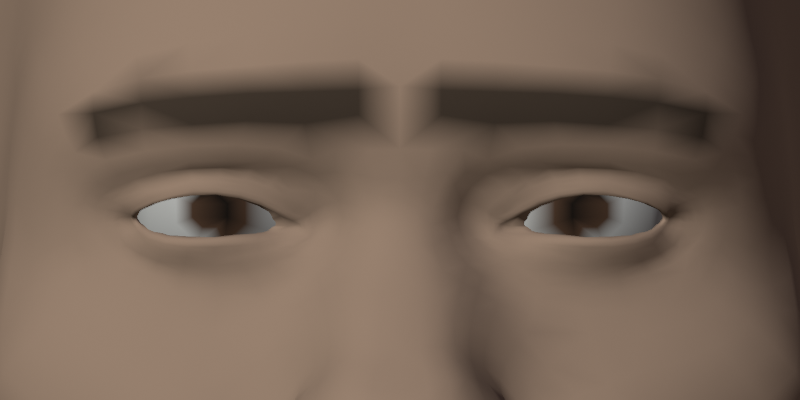
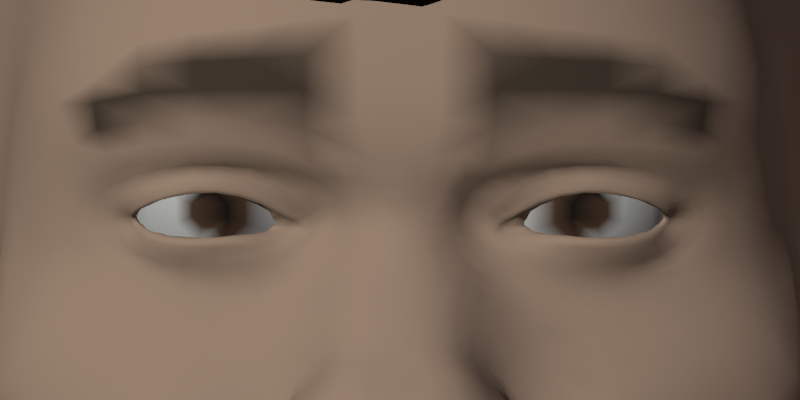
Miguel: camisa sem furos e listras continuas, rosto mais jovem e cheio
- Camisa: furos da cintura fechados, malha subdividida (listras e barra
  continuas), diagonal amarela so na frente
- Rosto: idade menor, bochechas e maxilar mais cheios, nariz e boca largos,
  cantos da boca levemente para cima, sobrancelha grossa afinando na ponta

Claude-Session: https://claude.ai/code/session_015xcccLS1wLAHGWNWcjbuqz

diff --git a/arte/miguel_humano.py b/arte/miguel_humano.py
@@ -25,25 +25,26 @@ ALTURA = 1.76
 # ---------------------------------------------------------------- medidas
 # Valores no jeito do MakeHuman (0..1). Miguel: 1,76 m, 67 kg, magro, ombros
 # largos, rosto largo nas bochechas, orelhas marcadas, labios cheios.
-MACRO = {"gender": 1.0, "age": 0.52, "muscle": 0.55, "weight": 0.40,
+MACRO = {"gender": 1.0, "age": 0.48, "muscle": 0.55, "weight": 0.40,
          "african": 0.40, "asian": 0.10, "caucasian": 0.50}
 # alvo (pasta/nome sem -incr/-decr e sem l-/r-) -> valor (-1..1)
 FORMA = {
-    # rosto comprido e largo nas macas; maxilar marcado, queixo redondo
-    "head/head-scale-vert": 0.05, "head/head-oval": 0.10, "head/head-scale-horiz": 0.40,
-    "cheek/cheek-bones": 0.70, "cheek/cheek-volume": 0.45,
-    "chin/chin-prominent": 0.15, "chin/chin-height": 0.20, "chin/chin-width": 0.15,
-    # testa e sobrancelha pesadas (olho fundo, sobrancelha baixa)
-    "eyebrows/eyebrows-trans-down": 0.30, "eyebrows/eyebrows-trans-forward": 0.10,
-    "forehead/forehead-trans-forward": 0.15,
+    # rosto largo e cheio (bochechas), jovem; maxilar largo e macio
+    "head/head-scale-vert": 0.10, "head/head-round": 0.10, "head/head-scale-horiz": 0.35,
+    "head/head-fat": 0.05,
+    "cheek/cheek-bones": 0.60, "cheek/cheek-volume": 0.50,
+    "chin/chin-prominent": 0.0, "chin/chin-height": 0.10, "chin/chin-width": 0.30,
+    # sobrancelha reta e baixa, sem testa saliente
+    "eyebrows/eyebrows-trans-down": 0.20, "eyebrows/eyebrows-angle-down": 0.20,
     # orelhas grandes e de abano
     "ears/ear-scale": 0.50, "ears/ear-flap": 0.65, "ears/ear-wing": 0.80,
-    # nariz longo, largo, ponta redonda e asas abertas
-    "nose/nose-scale-vert": 0.30, "nose/nose-scale-horiz": 0.35, "nose/nose-volume": 0.30,
-    "nose/nose-point-width": 0.55, "nose/nose-flaring": 0.55, "nose/nose-trans-forward": 0.15,
-    # labios cheios e largos, arco do cupido marcado
-    "mouth/mouth-upperlip-volume": 0.55, "mouth/mouth-lowerlip-volume": 0.75,
-    "mouth/mouth-scale-horiz": 0.25, "mouth/mouth-cupidsbow": 0.30,
+    # nariz largo, ponta redonda e asas abertas
+    "nose/nose-scale-vert": 0.20, "nose/nose-scale-horiz": 0.55, "nose/nose-volume": 0.40,
+    "nose/nose-point-width": 0.85, "nose/nose-flaring": 0.70,
+    # boca larga, labios cheios (o de baixo maior)
+    "mouth/mouth-upperlip-volume": 0.60, "mouth/mouth-lowerlip-volume": 0.85,
+    "mouth/mouth-scale-horiz": 0.50, "mouth/mouth-cupidsbow": 0.30,
+    "mouth/mouth-angles-up": 0.25,
     # corpo: ombros largos, cintura fina, pescoco longo
     "torso/torso-vshape": 0.45, "torso/measure-shoulder-dist": 0.35,
     "torso/measure-waist-circ": -0.30,
@@ -214,10 +215,10 @@ def pintar_corpo(ob, grupo_face, jt):
             continue
         ax = abs(c.x)
         # sobrancelha grossa, reta e baixa, caindo um pouco na ponta de fora
-        if 0.007 < ax < 0.056:
+        if 0.010 < ax < 0.056:
             t = (ax - 0.007) / 0.049
-            meio = oz + 0.016 + 0.0015 * t - 0.004 * max(0.0, t - 0.75) / 0.25
-            grossura = 0.0050 * (1.0 - 0.40 * t)
+            meio = oz + 0.017 + 0.004 * math.sin(math.pi * min(1.0, t * 1.1)) - 0.003 * max(0.0, t - 0.8) / 0.2
+            grossura = 0.0060 * (1.0 - 0.45 * t)
             dist = abs(c.z - meio)
             if dist < grossura * 1.6 and c.y < frente_rosto + 0.045:
                 f = 1.0 if dist < grossura else 1.0 - (dist - grossura) / (grossura * 0.6)
@@ -469,6 +470,11 @@ def fazer_camisa(ob, base_idx, dom, jt):
     ilhas.sort(key=len, reverse=True)
     for ilha in ilhas[1:]:
         bmesh.ops.delete(bm, geom=ilha, context="VERTS")
+    # tapa furos pequenos (onde a pele tinha peso da mao/antebraco) e
+    # subdivide para as listras sairem continuas
+    bmesh.ops.holes_fill(bm, edges=[e for e in bm.edges if e.is_boundary], sides=30)
+    bmesh.ops.triangulate(bm, faces=[f for f in bm.faces if len(f.verts) > 4])
+    bmesh.ops.subdivide_edges(bm, edges=bm.edges[:], cuts=1, use_grid_fill=True)
     bm.to_mesh(cam.data)
     bm.free()
     me2 = cam.data
@@ -489,7 +495,7 @@ def fazer_camisa(ob, base_idx, dom, jt):
             cor = VERDE if c.z > zq + 0.05 + 0.02 * math.sin(c.x * 9) else VERDE_ESC
         # diagonal amarela no lado esquerdo dele (desce do flanco ate a barra)
         diag = zq + 0.20 - (c.x - 0.06) * 1.6
-        if c.x > 0.06 and abs(c.z - diag) < 0.013 and c.z < zq + 0.22:
+        if c.x > 0.06 and c.y < 0.03 and abs(c.z - diag) < 0.011 and c.z < zq + 0.22:
             cor = AMARELO
         # listras do ombro: verde, verde-azulado e amarelo, da gola ate a manga
         ax = abs(c.x)
